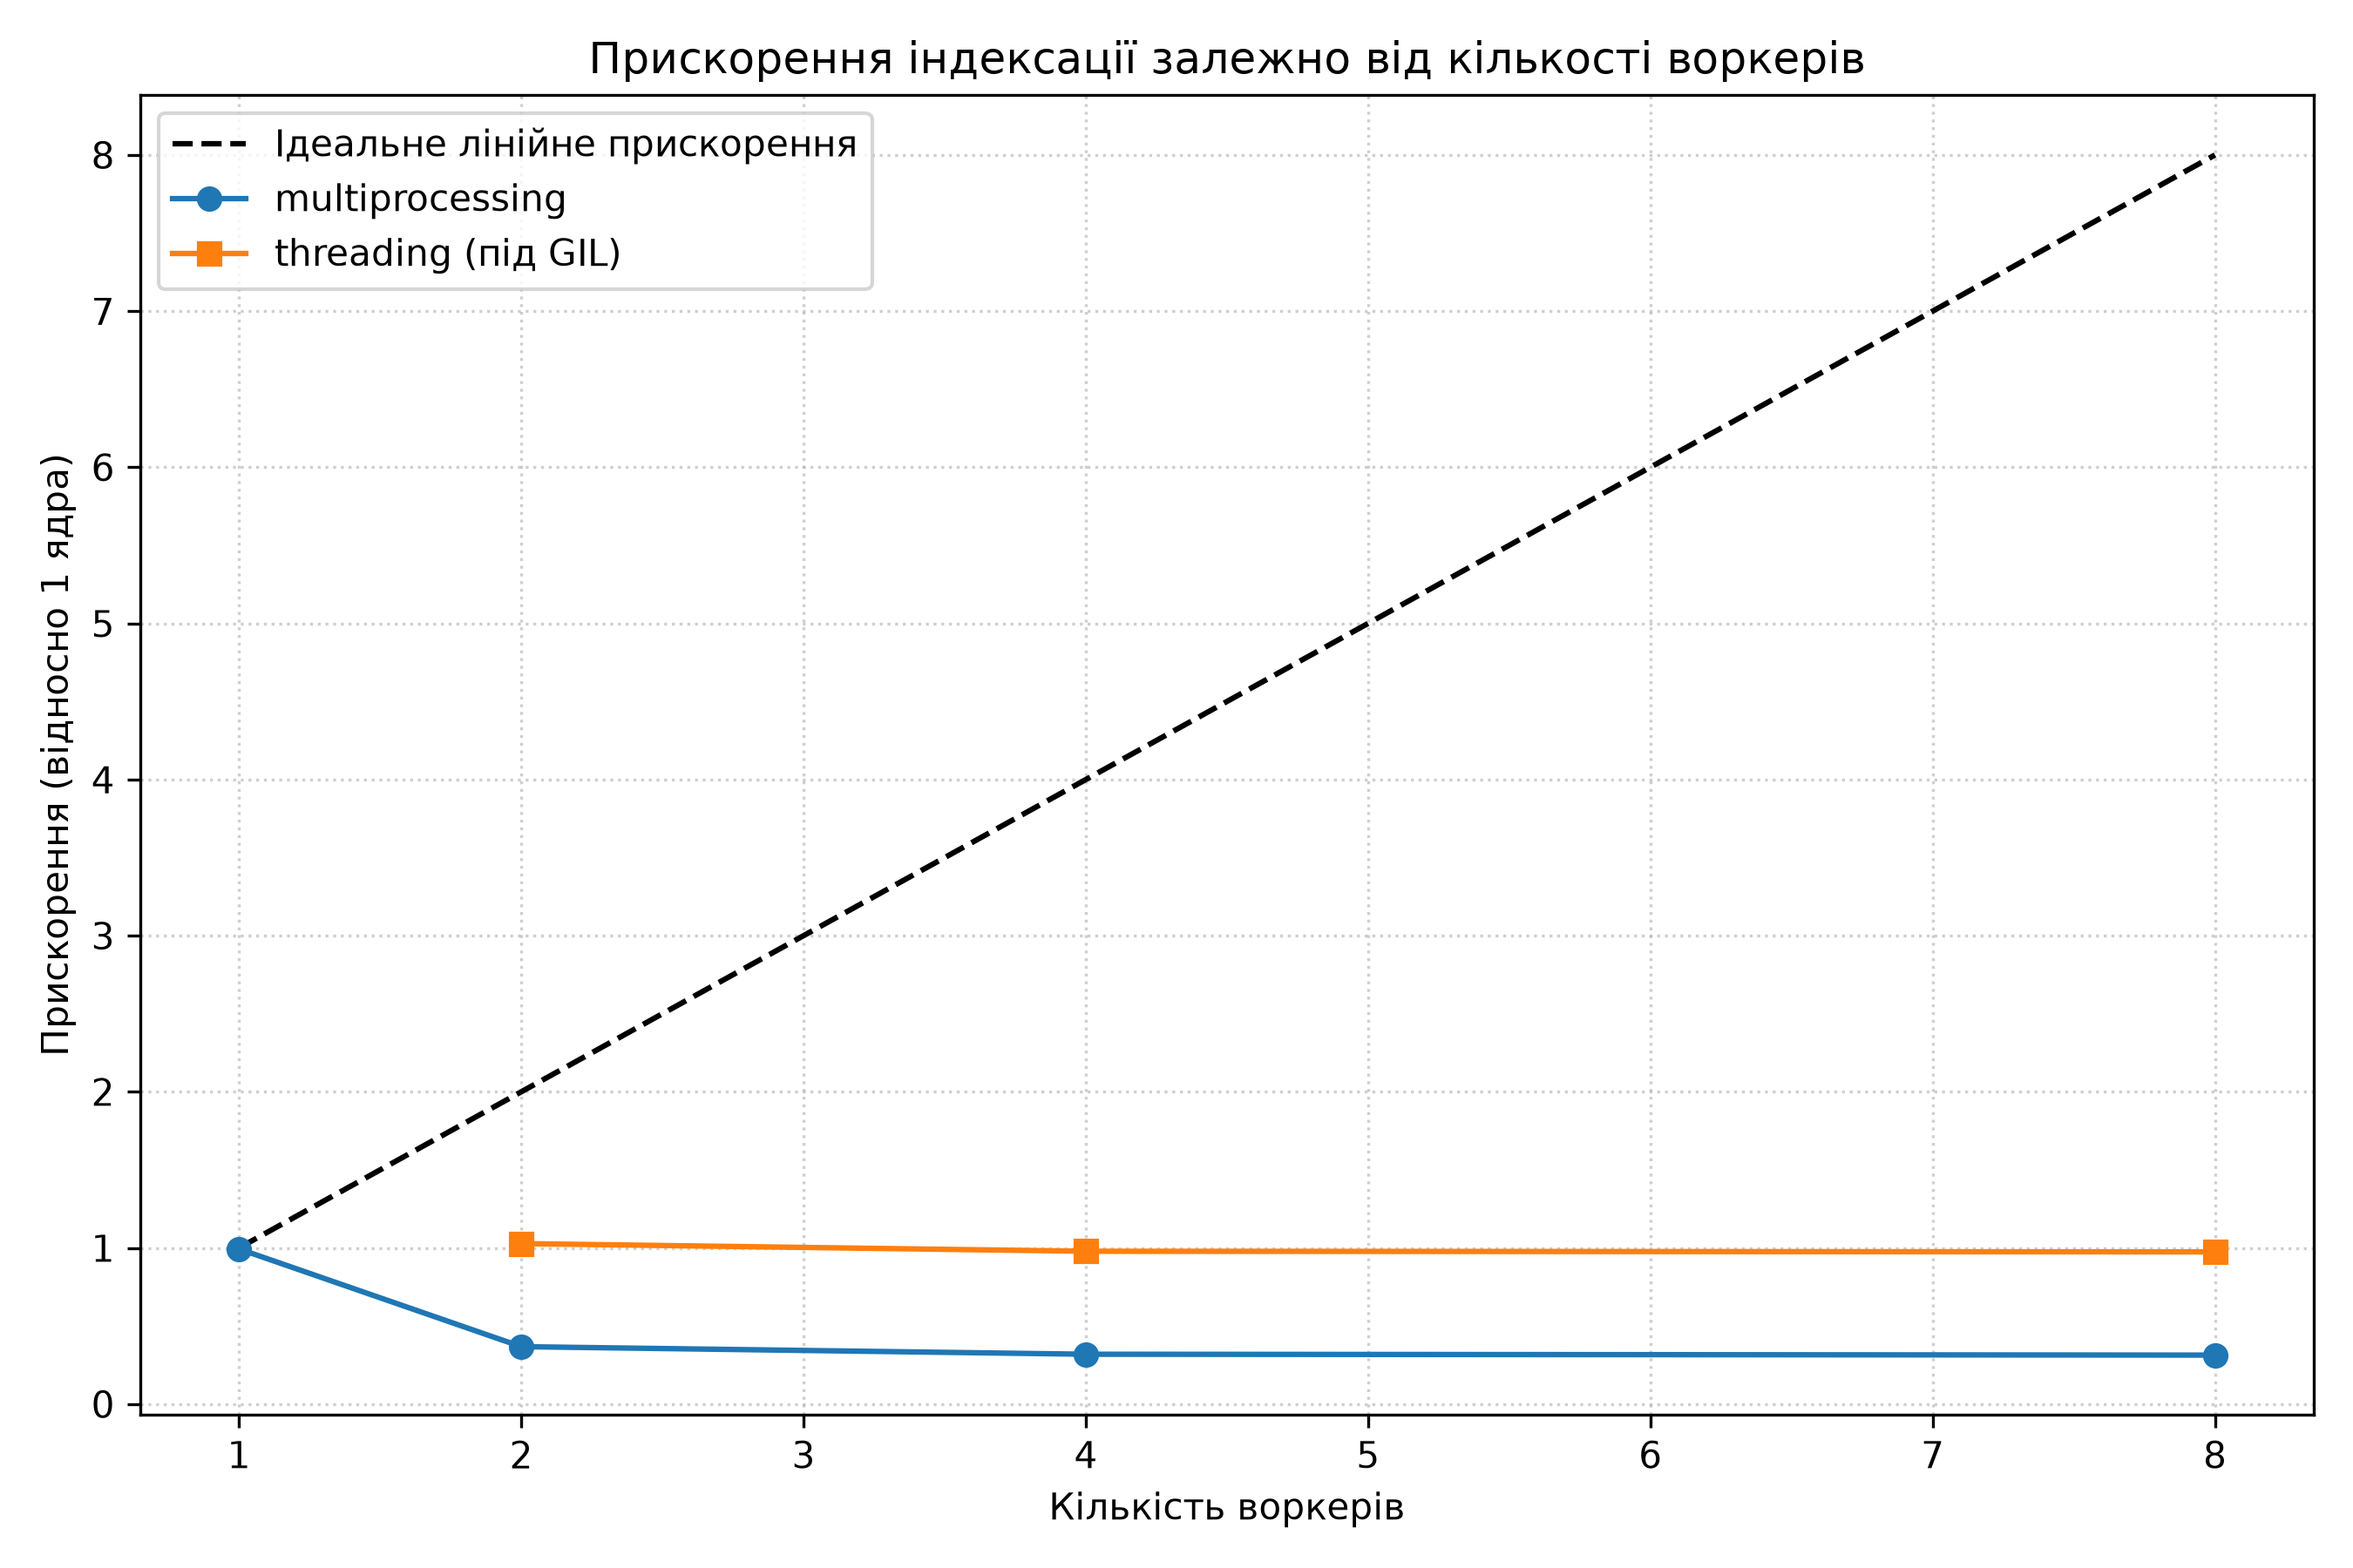
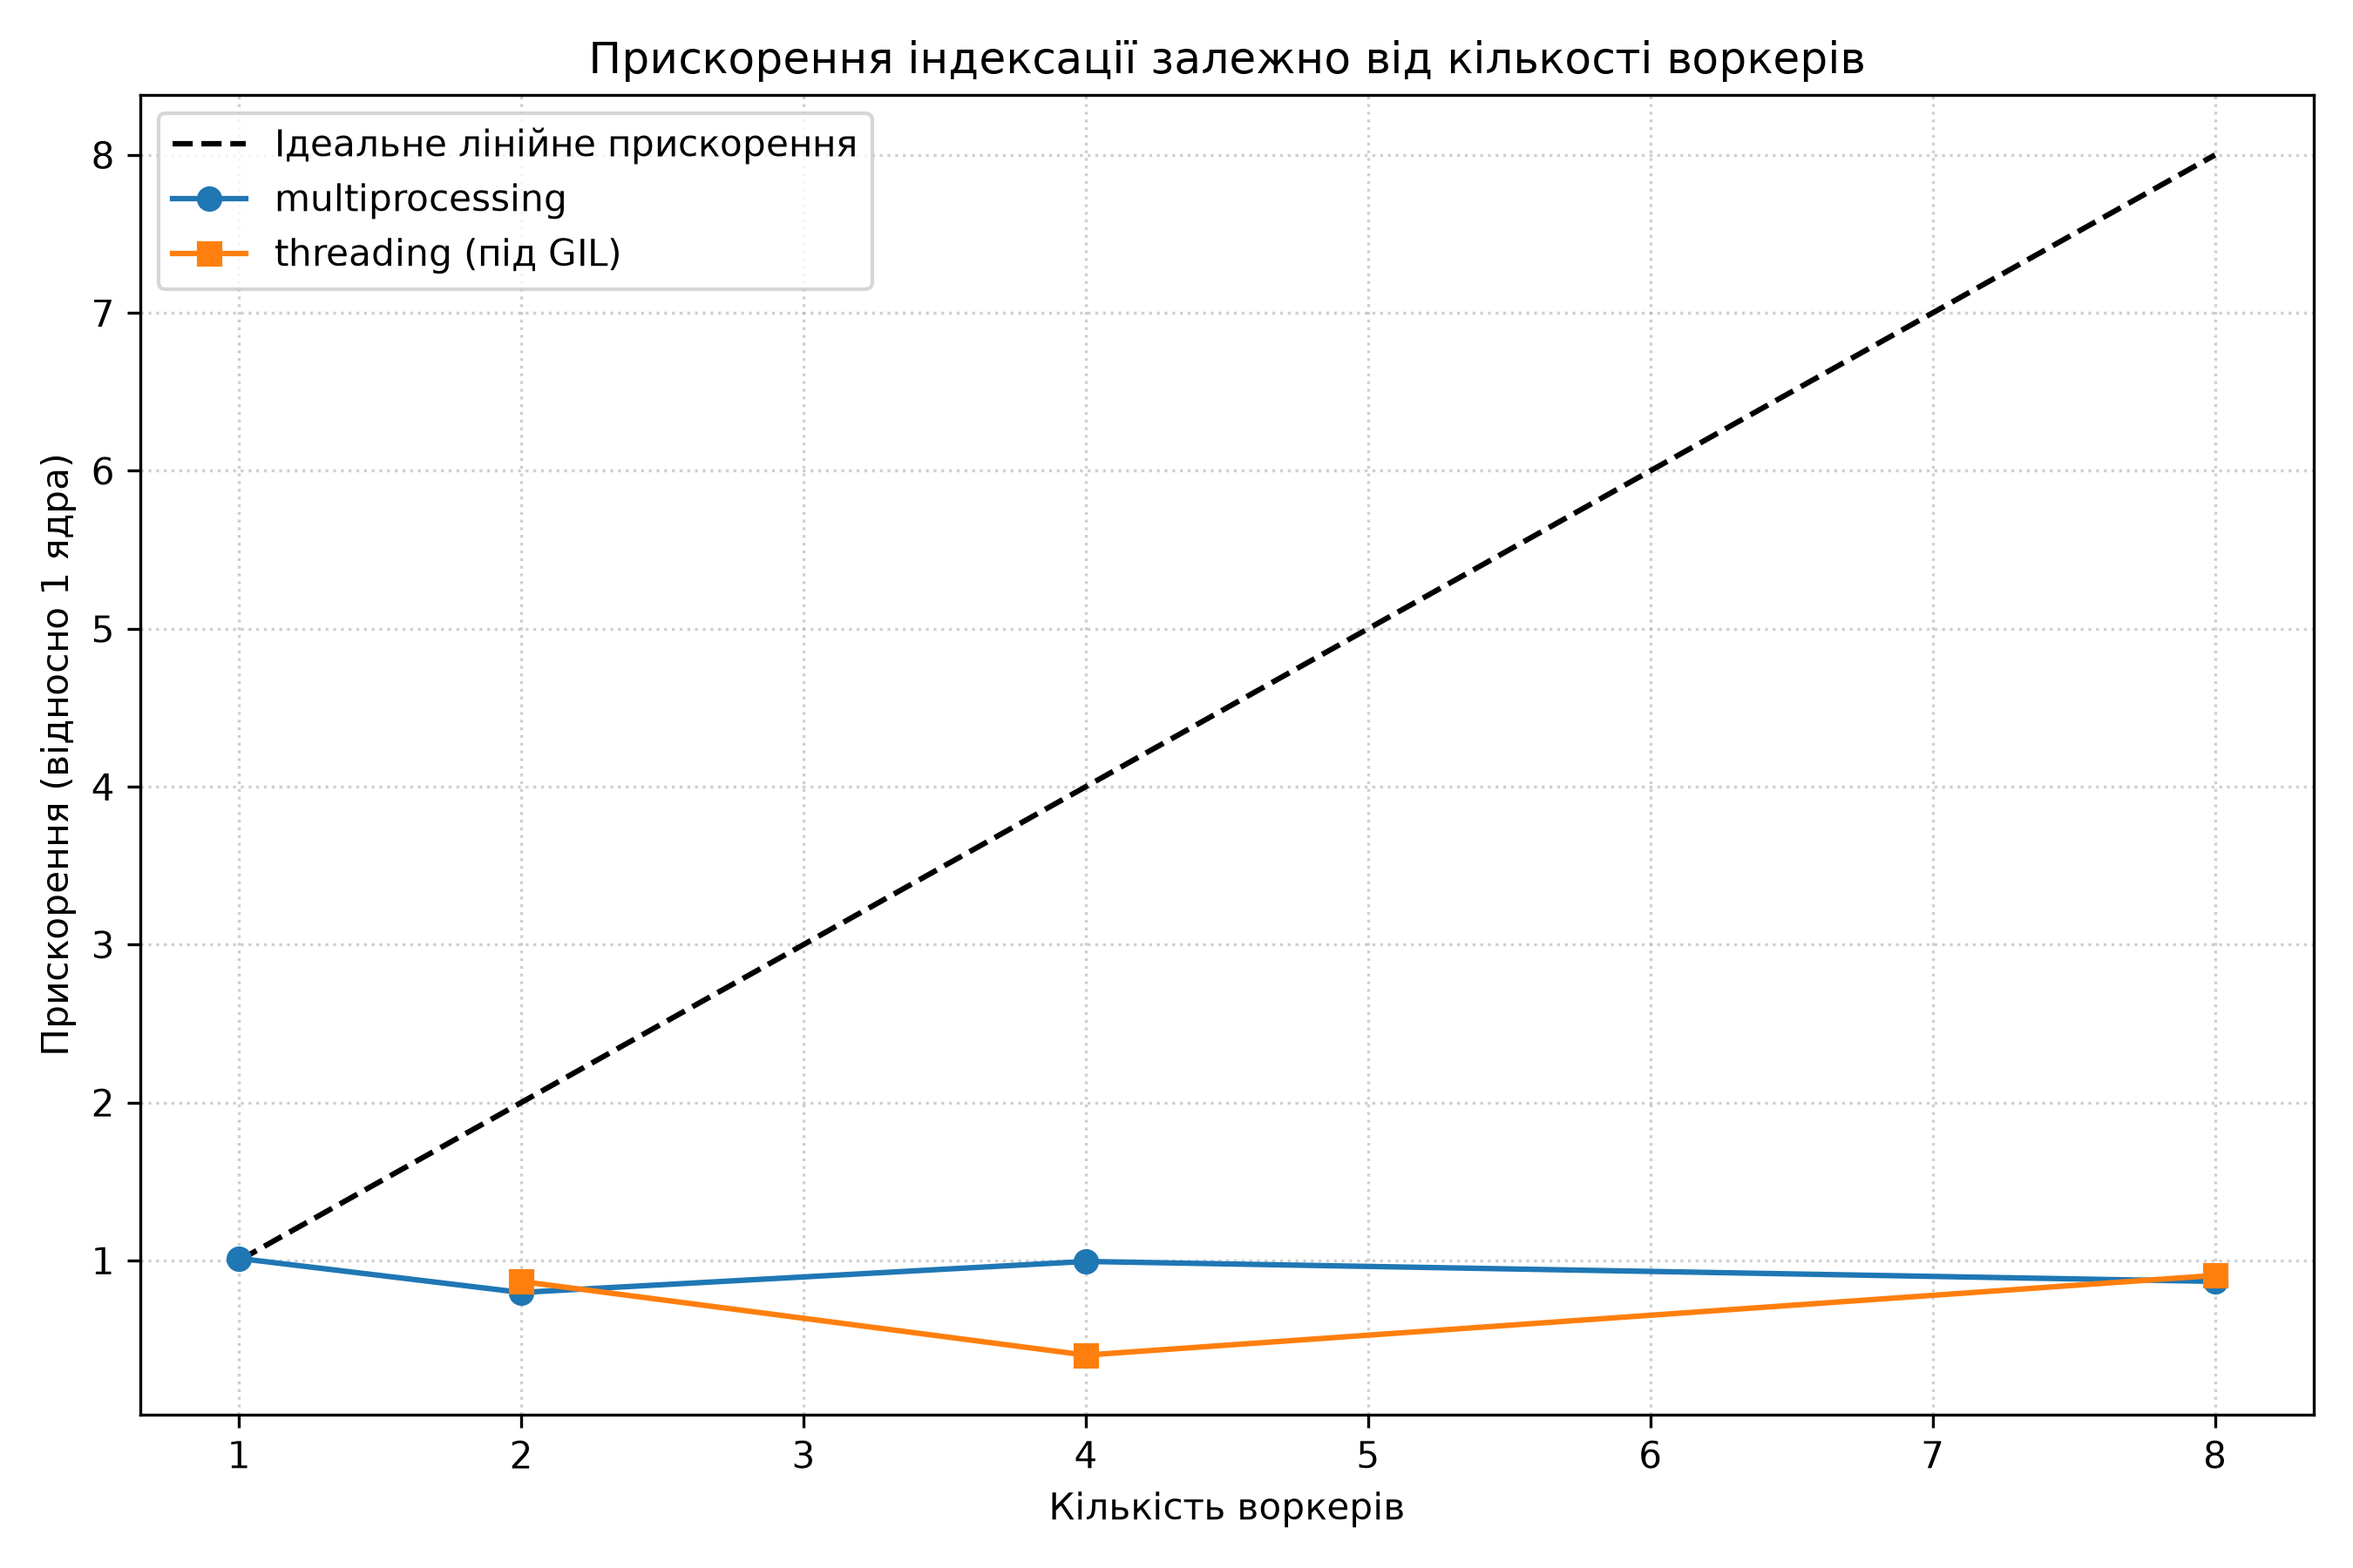
Update lab 5 report

diff --git a/README.md b/README.md
@@ -29,19 +29,19 @@
 ### Результати бенчмаркінгу
 | Режим | Воркери | Wall time (s) | CPU time (s) | RSS (MB) | Прискорення |
 |---|---|---|---|---|---|
-| serial | 1 | 0.344 | 0.344 | 97.3 | 1.00x |
-| processes | 1 | 0.346 | 0.344 | 100.4 | 0.99x |
-| processes | 2 | 0.935 | 0.141 | 100.1 | 0.37x |
-| processes | 4 | 1.077 | 0.125 | 99.0 | 0.32x |
-| processes | 8 | 1.097 | 0.141 | 99.1 | 0.31x |
-| threads | 2 | 0.335 | 0.344 | 103.2 | 1.03x |
-| threads | 4 | 0.351 | 0.344 | 106.1 | 0.98x |
-| threads | 8 | 0.353 | 0.344 | 107.2 | 0.97x |
+| serial | 1 | 4.004 | 3.953 | 210.1 | 1.00x |
+| processes | 1 | 3.954 | 3.938 | 239.0 | 1.01x |
+| processes | 2 | 5.023 | 1.391 | 263.6 | 0.80x |
+| processes | 4 | 4.030 | 1.594 | 257.0 | 0.99x |
+| processes | 8 | 4.617 | 2.078 | 258.9 | 0.87x |
+| threads | 2 | 4.619 | 4.453 | 283.5 | 0.87x |
+| threads | 4 | 9.998 | 9.688 | 284.4 | 0.40x |
+| threads | 8 | 4.424 | 4.422 | 307.9 | 0.91x |
 
-### Графік прискорення
 ![Графік прискорення](speedup.png)
 
-### Аналіз результатів та поведінки GIL
-Потоки (threading) не дали прискорення, утримавши результат на позначці 0.97x–1.03x. Оскільки індексація та токенізація є обчислювальним навантаженням (CPU-bound), механізм Global Interpreter Lock у CPython дозволяє одночасно виконувати байткод лише одному потоку на одному ядрі, через що паралелізм блокується інтерпретатором.
+### Експеримент із безгіловою збіркою (Python 3.13t)
+Перевірка стану блокування: `sys._is_gil_enabled() -> False`. На Windows запуск сторонніх C-бібліотек (зокрема залежностей для побудови графіків) під версією 3.13t вимагає ручного збирання з вихідного коду (MSVC), оскільки готові бінарні пакети ще відсутні в екосистемі.
 
-Багатопроцесорність (multiprocessing) на цьому датасеті продемонструвала уповільнення до 0.31x через малий початковий обсяг даних (0.344 секунди). В операційній системі Windows використовується метод spawn, який щоразу ініціалізує новий інтерпретатор Python. Накладні витрати на старт восьми окремих процесів та передачу даних через pickle виявилися більшими за сам час розбору тексту. Це ілюструє закон Амдала: на крихітних обсягах непаралельна частина (ініціалізація та об'єднання індексів) повністю поглинає потенційний виграш від додаткових ядер.
+### Аналіз результатів та поведінки GIL
+Потоки (threading) через блокування інтерпретатора GIL не демонструють масштабування на CPU-bound задачах і просідають через постійні накладні витрати на перемикання контексту. Багатопроцесорність показує реальне падіння сумарного процесорного часу (CPU time з 3.95s до 1.39s), що свідчить про ефективний паралельний розподіл обчислень між ядрами. Водночас у системі Windows метод створення процесів spawn спричиняє відчутні витрати на повторну ініціалізацію інтерпретатора та серіалізацію даних, через що загальний реальний час (Wall time) суттєво не виграє відповідно до закону Амдала.
